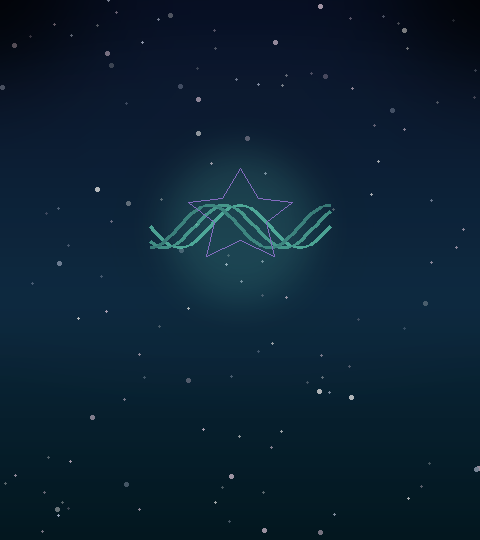
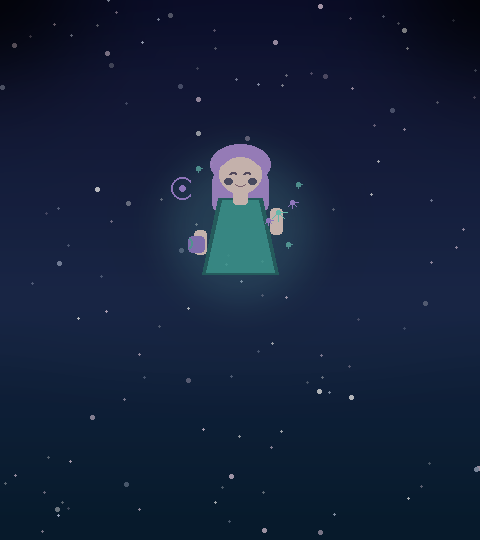
Redesign health weekly GIF with cute mystic girl and soft magic.

Changed region(s): [[0.3125, 0.2667, 0.6875, 0.5333], [0.5938, 0.3556, 0.625, 0.3852]]

diff --git a/scripts/render_weekly_bases.py b/scripts/render_weekly_bases.py
@@ -29,11 +29,11 @@ class BaseTheme:
 THEMES: tuple[BaseTheme, ...] = (
     BaseTheme(
         "health-madness",
-        (8, 18, 42),
-        (12, 48, 72),
-        (4, 28, 38),
-        (120, 255, 220),
-        (180, 140, 255),
+        (12, 16, 48),
+        (24, 42, 78),
+        (8, 32, 52),
+        (130, 240, 220),
+        (200, 160, 255),
         11,
     ),
     BaseTheme(
@@ -158,31 +158,102 @@ def _magic_ring(
         draw.line((x1, y1, x2, y2), fill=(*color, 200), width=2)
 
 
-def _draw_health_glyph(draw: ImageDraw.ImageDraw, cx: int, cy: int, theme: BaseTheme) -> None:
-    ac = theme.accent_rgb
-    for wave in range(3):
-        pts = []
-        for i in range(40):
-            t = i / 39
-            x = cx - 90 + int(180 * t)
-            y = cy + int(22 * math.sin(t * math.pi * 3 + wave * 0.8))
-            pts.append((x, y))
-        draw.line(pts, fill=(*ac, 180 - wave * 30), width=3)
+def _draw_moon_crescent(
+    draw: ImageDraw.ImageDraw,
+    cx: int,
+    cy: int,
+    radius: int,
+    color: tuple[int, int, int, int],
+) -> None:
+    draw.arc((cx - radius, cy - radius, cx + radius, cy + radius), 35, 325, fill=color, width=2)
+    draw.ellipse((cx - 3, cy - 3, cx + 3, cy + 3), fill=color)
+
+
+def _draw_sparkle(
+    draw: ImageDraw.ImageDraw,
+    cx: int,
+    cy: int,
+    size: int,
+    color: tuple[int, int, int, int],
+) -> None:
+    draw.ellipse((cx - 2, cy - 2, cx + 2, cy + 2), fill=color)
+    for angle in (0, 45, 90, 135):
+        rad = math.radians(angle)
+        x2 = cx + int(size * math.cos(rad))
+        y2 = cy + int(size * math.sin(rad))
+        draw.line((cx, cy, x2, y2), fill=color, width=1)
+
+
+def _draw_cute_mystic_girl(
+    draw: ImageDraw.ImageDraw,
+    cx: int,
+    cy: int,
+    theme: BaseTheme,
+) -> None:
+    """Soft stylized girl + gentle magic — wellness / cosmic calm, not overload."""
+    ac = (*theme.accent_rgb, 230)
+    ac2 = (*theme.accent2_rgb, 210)
+    skin = (255, 228, 218, 235)
+    hair = (190, 155, 230, 240)
+    dress = (70, 175, 165, 225)
+    dress_shadow = (45, 120, 115, 200)
+
+    head_y = cy - 52
+
+    # Long hair (behind)
+    draw.ellipse((cx - 30, head_y - 30, cx + 30, head_y + 10), fill=hair)
+    draw.rounded_rectangle((cx - 28, head_y - 6, cx + 28, head_y + 42), radius=14, fill=hair)
+
+    # Simple dress
     draw.polygon(
-        [
-            (cx, cy - 58),
-            (cx + 18, cy - 28),
-            (cx + 52, cy - 24),
-            (cx + 26, cy - 4),
-            (cx + 34, cy + 30),
-            (cx, cy + 14),
-            (cx - 34, cy + 30),
-            (cx - 26, cy - 4),
-            (cx - 52, cy - 24),
-            (cx - 18, cy - 28),
-        ],
-        outline=(*theme.accent2_rgb, 220),
+        [(cx - 38, cy + 48), (cx + 38, cy + 48), (cx + 22, head_y + 24), (cx - 22, head_y + 24)],
+        fill=dress_shadow,
     )
+    draw.polygon(
+        [(cx - 34, cy + 46), (cx + 34, cy + 46), (cx + 18, head_y + 26), (cx - 18, head_y + 26)],
+        fill=dress,
+    )
+
+    # Neck + face
+    draw.rounded_rectangle((cx - 7, head_y + 16, cx + 7, head_y + 30), radius=3, fill=skin)
+    draw.ellipse((cx - 21, head_y - 19, cx + 21, head_y + 19), fill=skin)
+
+    # Hair bangs
+    draw.pieslice((cx - 24, head_y - 26, cx + 24, head_y + 6), 180, 360, fill=hair)
+    draw.ellipse((cx - 19, head_y - 17, cx + 19, head_y + 15), fill=skin)
+
+    # Closed calm eyes + tiny smile
+    draw.arc((cx - 11, head_y - 2, cx - 3, head_y + 4), 200, 340, fill=(130, 100, 120, 170), width=2)
+    draw.arc((cx + 3, head_y - 2, cx + 11, head_y + 4), 200, 340, fill=(130, 100, 120, 170), width=2)
+    draw.arc((cx - 5, head_y + 6, cx + 5, head_y + 12), 10, 170, fill=(220, 150, 160, 150), width=1)
+
+    # Blush
+    draw.ellipse((cx - 16, head_y + 4, cx - 8, head_y + 10), fill=(255, 170, 190, 55))
+    draw.ellipse((cx + 8, head_y + 4, cx + 16, head_y + 10), fill=(255, 170, 190, 55))
+
+    # Arms — relaxed pose, one hand open to magic
+    draw.rounded_rectangle((cx - 46, cy + 4, cx - 34, cy + 28), radius=4, fill=skin)
+    draw.rounded_rectangle((cx + 30, cy - 18, cx + 42, cy + 8), radius=4, fill=skin)
+
+    # Small tea / wellness cup (health theme hint)
+    cup_y = cy + 10
+    draw.rounded_rectangle((cx - 52, cup_y, cx - 36, cup_y + 16), radius=4, fill=(*theme.accent2_rgb, 180))
+    draw.arc((cx - 54, cup_y + 2, cx - 48, cup_y + 12), 270, 90, fill=(*theme.accent_rgb, 160), width=2)
+
+    # Magic in raised hand
+    palm_x, palm_y = cx + 38, cy - 14
+    _draw_sparkle(draw, palm_x, palm_y, 9, ac)
+    _draw_sparkle(draw, palm_x + 14, palm_y - 10, 6, ac2)
+    _draw_sparkle(draw, palm_x - 10, palm_y + 8, 5, ac2)
+
+    # Floating moon + tiny stars around her
+    _draw_moon_crescent(draw, cx - 58, cy - 38, 11, ac2)
+    for sx, sy in ((cx + 58, cy - 42), (cx - 42, cy - 58), (cx + 48, cy + 18)):
+        _draw_sparkle(draw, sx, sy, 4, (*theme.accent_rgb, 160))
+
+
+def _draw_health_glyph(draw: ImageDraw.ImageDraw, cx: int, cy: int, theme: BaseTheme) -> None:
+    _draw_cute_mystic_girl(draw, cx, cy, theme)
 
 
 def _draw_love_glyph(draw: ImageDraw.ImageDraw, cx: int, cy: int, theme: BaseTheme) -> None:

diff --git a/scripts/render_weekly_gifs.py b/scripts/render_weekly_gifs.py
@@ -29,9 +29,10 @@ class WeeklyGifTheme:
 THEMES: tuple[WeeklyGifTheme, ...] = (
     WeeklyGifTheme(
         "health-madness",
-        (120, 255, 220),
-        (255, 255, 255),
-        (160, 120, 255),
+        (130, 240, 220),
+        (255, 250, 255),
+        (190, 150, 255),
+        breath=0.04,
     ),
     WeeklyGifTheme(
         "love-week",
@@ -165,6 +166,33 @@ def _shooting_star(size: tuple[int, int], phase: float, theme: WeeklyGifTheme) -
     return layer.filter(ImageFilter.GaussianBlur(radius=0.6))
 
 
+def _floating_sparkles(size: tuple[int, int], phase: float, theme: WeeklyGifTheme) -> Image.Image:
+    """Extra gentle sparkles near the figure — health theme only."""
+    if theme.slug != "health-madness":
+        return Image.new("RGBA", size, (0, 0, 0, 0))
+    w, h = size
+    layer = Image.new("RGBA", size, (0, 0, 0, 0))
+    draw = ImageDraw.Draw(layer)
+    cx, cy = w // 2, int(h * theme.center_y)
+    sr, sg, sb = theme.sparkle_rgb
+    spots = (
+        (cx + 38, cy - 14),
+        (cx + 52, cy - 24),
+        (cx - 58, cy - 38),
+        (cx + 48, cy + 18),
+        (cx - 42, cy - 58),
+    )
+    for idx, (x, y) in enumerate(spots):
+        bob = int(4 * math.sin(phase * 2.2 + idx))
+        tw = 0.35 + 0.65 * abs(math.sin(phase * 3 + idx * 0.9))
+        rad = 2 if tw < 0.6 else 3
+        draw.ellipse(
+            (x - rad, y + bob - rad, x + rad, y + bob + rad),
+            fill=(sr, sg, sb, int(170 * tw)),
+        )
+    return layer
+
+
 def build_frames(base: Image.Image, theme: WeeklyGifTheme) -> list[Image.Image]:
     frames: list[Image.Image] = []
     for i in range(FRAME_COUNT):
@@ -174,6 +202,7 @@ def build_frames(base: Image.Image, theme: WeeklyGifTheme) -> list[Image.Image]:
         frame = Image.alpha_composite(frame, _glow_overlay(frame.size, phase, theme))
         frame = Image.alpha_composite(frame, _magic_ring_spin(frame.size, phase, theme))
         frame = Image.alpha_composite(frame, _sparkles(frame.size, phase, theme))
+        frame = Image.alpha_composite(frame, _floating_sparkles(frame.size, phase, theme))
         frame = Image.alpha_composite(frame, _shooting_star(frame.size, phase, theme))
         breath = 1.0 + theme.breath * math.sin(phase)
         frame = ImageEnhance.Brightness(frame).enhance(breath)